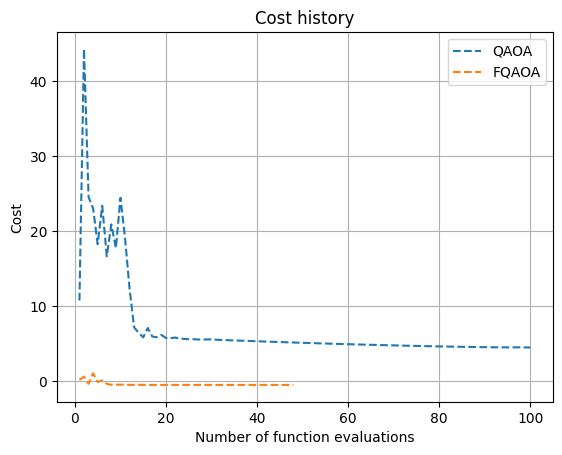
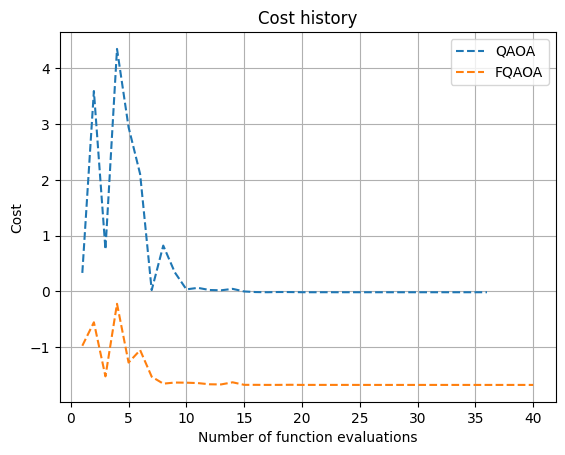
Update web documentation to reflect changes in 16_FQAOA_example.ipynb

diff --git a/docs/workflows/fermionic-qaoa.md b/docs/workflows/fermionic-qaoa.md
@@ -59,8 +59,6 @@ $$\qquad{\rm where \quad}C_p({\vec \gamma}, {\vec \beta}) = \langle\psi_p({\vec 
 
 The variational parameters $({\vec \gamma}^{\rm opt}, {\vec \beta}^{\rm opt})$ give the lowest cost value at QAOA level $p$.
 
-
-
 ```python
 %matplotlib notebook
 %matplotlib inline
@@ -85,9 +83,9 @@ Start by creating an instance of the portfolio optimization problem, using the `
 
 ```python
 # create a problem instance for portfolio optimization
-num_assets = 8 # number of decision variables
-budget = 4 # constraint on the sum of decision variables
-problem = PortfolioOptimization.random_instance(num_assets=num_assets, budget=budget, penalty = None).qubo
+num_assets = 4 # number of decision variables
+budget = 2 # constraint on the sum of decision variables
+problem = PortfolioOptimization.random_instance(num_assets=num_assets, budget=budget).qubo
 ```
 
 ##  Solving the problem
@@ -145,12 +143,10 @@ display(df)
 
 the optimized expectation values of the cost
 
-
 | Method | Optimized Cost $\langle C_{\vec x} \rangle$ |
-|--------|----------------|
-| QAOA   | 4.512233       |
-| FQAOA  | -0.482998      |
-
+|--------|-----------|
+| QAOA   | -0.014343 |
+| FQAOA  | -1.675643 |
 
 
 ```python
@@ -159,7 +155,7 @@ qaoa_lowest5_dict = qaoa.result.lowest_cost_bitstrings(5)
 fqaoa_lowest5_dict = fqaoa.result.lowest_cost_bitstrings(5)
 
 qaoa_dict = {
-    r'Bitstring, $\boldsymbol{x}$': qaoa_lowest5_dict['solutions_bitstrings'],
+    r'Bitstring, $\vec{x}$': qaoa_lowest5_dict['solutions_bitstrings'],
     r'Cost, $C_{\vec x}$': qaoa_lowest5_dict['bitstrings_energies'],
     labels[0]: qaoa_lowest5_dict['probabilities'],
     labels[1]: fqaoa_lowest5_dict['probabilities']
@@ -171,14 +167,13 @@ display(df)
 
 the probabilities of finding the best five optimal solutions by using QAOA and FQAOA
 
-| Index | Bitstring, $\vec x$ | Cost, $C_{\vec x}$| QAOA     | FQAOA    |
-|-------|---------------------|-------------------|----------|----------|
-| 0     | 11100001            | -1.371650         | 0.005642 | 0.009979 |
-| 1     | 11101000            | -1.193696         | 0.006019 | 0.024488 |
-| 2     | 10101001            | -1.080295         | 0.006139 | 0.192331 |
-| 3     | 10110001            | -1.079240         | 0.005780 | 0.044356 |
-| 4     | 11100100            | -0.949303         | 0.006036 | 0.020335 |
-
+| Index | Bitstring, $\vec{x}$ | Cost, $C_{\vec x}$ | QAOA    | FQAOA   |
+|-------|------------------|------------------------------|---------|---------|
+| 0     | 1010             | -1.797905                    | 0.144896| 0.904789|
+| 1     | 1100             | -0.720493                    | 0.124931| 0.015386|
+| 2     | 0110             | -0.602018                    | 0.122931| 0.033298|
+| 3     | 1001             | -0.471908                    | 0.120777| 0.031587|
+| 4     | 0011             | -0.362333                    | 0.119113| 0.012593|
 
 References
 ----------
